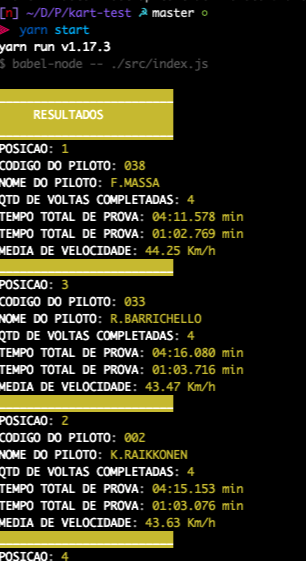
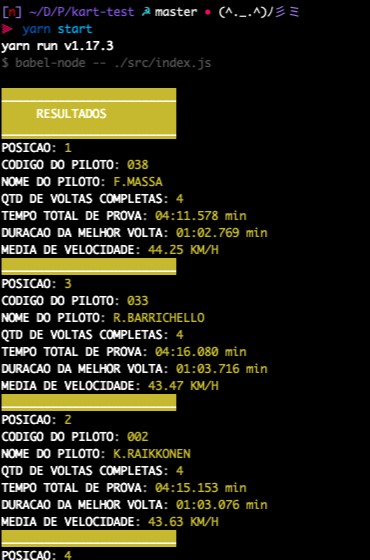
Fix log message

Changed region(s): [[0.0, 0.1518, 0.7941, 1.0], [0.0, 0.0, 0.8235, 0.1214], [0.6471, 0.0911, 0.6765, 0.1214]]

diff --git a/src/index.js b/src/index.js
@@ -40,13 +40,13 @@ const printResults = (file) => {
     keyValueLog('POSICAO', indexOfObjectInArr(obj[pilot].name, ranking) + 1)
     keyValueLog('CODIGO DO PILOTO', pilot);
     keyValueLog('NOME DO PILOTO', obj[pilot].name);
-    keyValueLog('QTD DE VOLTAS COMPLETADAS', obj[pilot].nTurns);
+    keyValueLog('QTD DE VOLTAS COMPLETAS', obj[pilot].nTurns);
     keyValueLog('TEMPO TOTAL DE PROVA',
       `${getDurationMiliSecToStr(obj[pilot].totalDuration)} min`);
-    keyValueLog('TEMPO TOTAL DE PROVA',
+    keyValueLog('DURACAO DA MELHOR VOLTA',
       `${getDurationMiliSecToStr(obj[pilot].bestDuration)} min`);
     keyValueLog('MEDIA DE VELOCIDADE',
-      `${getAverage(obj[pilot].listOfVelocities)} Km/h`);
+      `${getAverage(obj[pilot].listOfVelocities)} KM/H`);
   })
 
   bgYellow(`\n________________________\n     MELHOR VOLTA       
